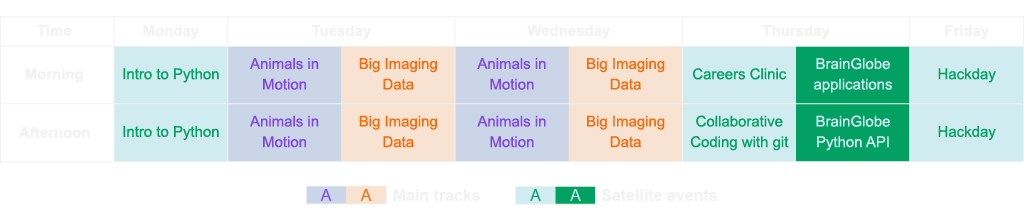
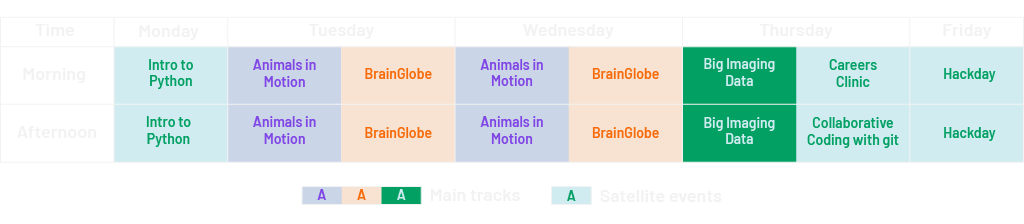
changed to 3 main tracks with updated names

diff --git a/docs/source/open-software-week/index.md b/docs/source/open-software-week/index.md
@@ -4,11 +4,11 @@ We are excited to announce our inaugural **NIU Open Software Week**, taking
 place in **August 2025** in **London, UK**. This event will bring together researchers, developers, and users of open-source software for some hands-on training, community-building and hacking.
 
 :::{admonition} Save the Date!
-:class: important
+:class: info
 
 **August 11-15 2025**, [Sainsbury Wellcome Centre](https://maps.app.goo.gl/CzWFFjXJZwX87aMj6)
 
-- **April 7th 2025**: Registration opens
+- **April 16th 2025**: Registration opens
 - **May 11th 2025**: Travel grant application deadline
 - **June 30th 2025**: Registration closes
 :::
@@ -21,17 +21,12 @@ Here is an overview of the whole week:
 <img src="../_static/osw_images/schedule-2025_light-mode.png" alt="event schedule" class="only-light img-responsive"/>
 <img src="../_static/osw_images/schedule-2025_dark-mode.png" alt="event schedule" class="only-dark img-responsive"/>
 
-- **Tuesday** and **Wednesday** will be dedicated to the two
-[main tracks](#main-tracks) of the event—[Animals in Motion](track-animals-in-motion) & [Big Microscopy Data](track-big-microscopy-data)—running in parallel. These tracks are targeted to different audiences, so make sure to choose the one that best fits your interests.
-- The main tracks will be bracketed by a series of [satellite events](#satellite-events) on **Monday**, **Thursday**, and **Friday**, including an [Intro to Python](intro-to-python) workshop a [Careers Clinic](careers-clinic), a [Collaborative coding with git](collaborative-coding-with-git) workshop, and a [Hackathon](hackathon).
+There are three **main tracks** targeted to different audiences.
+We encourage you to read each track's description and choose the one that best fits your interests.
+You can apply for 2/3 main tracks, but note that [Animals in Motion](track-animals-in-motion) and [BrainGlobe](track-brainglobe)
+cannot be combined as they are running in parallel.
 
-
-## Main Tracks
-
-We encourage you to read each track's description and
-choose the one that best fits your interests.
-
-:::: {grid} 1 2 2 2
+:::: {grid} 1 1 3 3
 
 :::{grid-item-card} {fas}`video;sd-text-secondary` Animals in Motion
 :img-top: ../_static/osw_images/animals-in-motion-card.png
@@ -43,19 +38,29 @@ and analyse animal motion from video footage.
 
 :::
 
-:::{grid-item-card} {fas}`microscope;sd-text-warning` Big Microscopy Data
-:img-top: ../_static/osw_images/big-microscopy-data-card.png
-:link: track-big-microscopy-data
+:::{grid-item-card} {fas}`video;sd-text-warning` BrainGlobe
+:img-top: ../_static/osw_images/brainglobe-card.png
+:link: track-brainglobe
 :link-type: ref
 
-Use open-source tools to process and analyse large 3D microscopy
-datasets.
+Use the BrainGlobe ecosystem of computational neuroanatomy tools
+to analyse whole-brain microscopy datasets.
+:::
+
+:::{grid-item-card} {fas}`microscope;sd-text-primary` Big Imaging Data
+:img-top: ../_static/osw_images/big-imaging-data-card.png
+:link: track-big-imaging-data
+:link-type: ref
+
+Bridging technical gaps and communities to process and analyse
+large 3D imaging datasets with open-source tools.
 
 :::
 
 ::::
 
-## Satellite Events
+We also offer a series of **satellite events** which are open to all participants and are designed to provide additional training and networking opportunities.
+You can apply for any number of satellite events, but note that the ones on Thursday cannot be combined with the [Big Imaging Data](track-big-imaging-data) track.
 
 :::{dropdown} Intro to Python
 :name: intro-to-python
@@ -81,8 +86,8 @@ A discussion for those interested in exploring non-traditional career paths in r
 Learn how to version control your code and collaborate with others using `git` and GitHub. This workshop is open to all but is especially recommended for those who are planning to participate in the following day's hackathon.
 :::
 
-:::{dropdown} Hackathon
-:name: hackathon
+:::{dropdown} Hackday
+:name: hackday
 :color: primary
 :icon: people
 
@@ -91,7 +96,7 @@ Put into practice what you have learned during the week and collaborate with oth
 
 ## Funding
 
-The Animals in Motion and the Big Microscopy Data tracks have been made possible by [Software Sustainability Institute](https://www.software.ac.uk/) fellowships to Niko Sirmpilatze and Alessandro Felder, respectively. The NIU Open Software Week is further supported by the Sainsbury Wellcome Centre. We thank the Sainsbury Wellcome Centre and the Gatsby Computational Neuroscience Unit for providing facilities for the event.
+The [Animals in Motion](track-animals-in-motion) and the [Big Imaging Data](track-big-imaging-data) tracks have been made possible by [Software Sustainability Institute](https://www.software.ac.uk/) fellowships to **Niko Sirmpilatze** and **Alessandro Felder**, respectively. The NIU Open Software Week is further supported by the [Sainsbury Wellcome Centre](https://www.sainsburywellcome.org/). We thank the [Sainsbury Wellcome Centre](https://www.sainsburywellcome.org/) and the [Gatsby Computational Neuroscience Unit](https://www.ucl.ac.uk/gatsby/gatsby-computational-neuroscience-unit) for providing facilities for the event.
 
 ```{image} /_static/osw_images/ssi-logo.svg
 :align: center
@@ -104,5 +109,6 @@ The Animals in Motion and the Big Microscopy Data tracks have been made possible
 :hidden:
 
 animals-in-motion
-big-microscopy-data
+brainglobe
+big-imaging-data
 ```

diff --git a/docs/source/open-software-week/big-imaging-data.md b/docs/source/open-software-week/big-imaging-data.md
@@ -1,0 +1,2 @@
+(track-big-imaging-data)=
+# Track: Big Imaging Data

diff --git a/docs/source/open-software-week/brainglobe.md b/docs/source/open-software-week/brainglobe.md
@@ -1,0 +1,2 @@
+(track-brainglobe)=
+# Track: BrainGlobe
